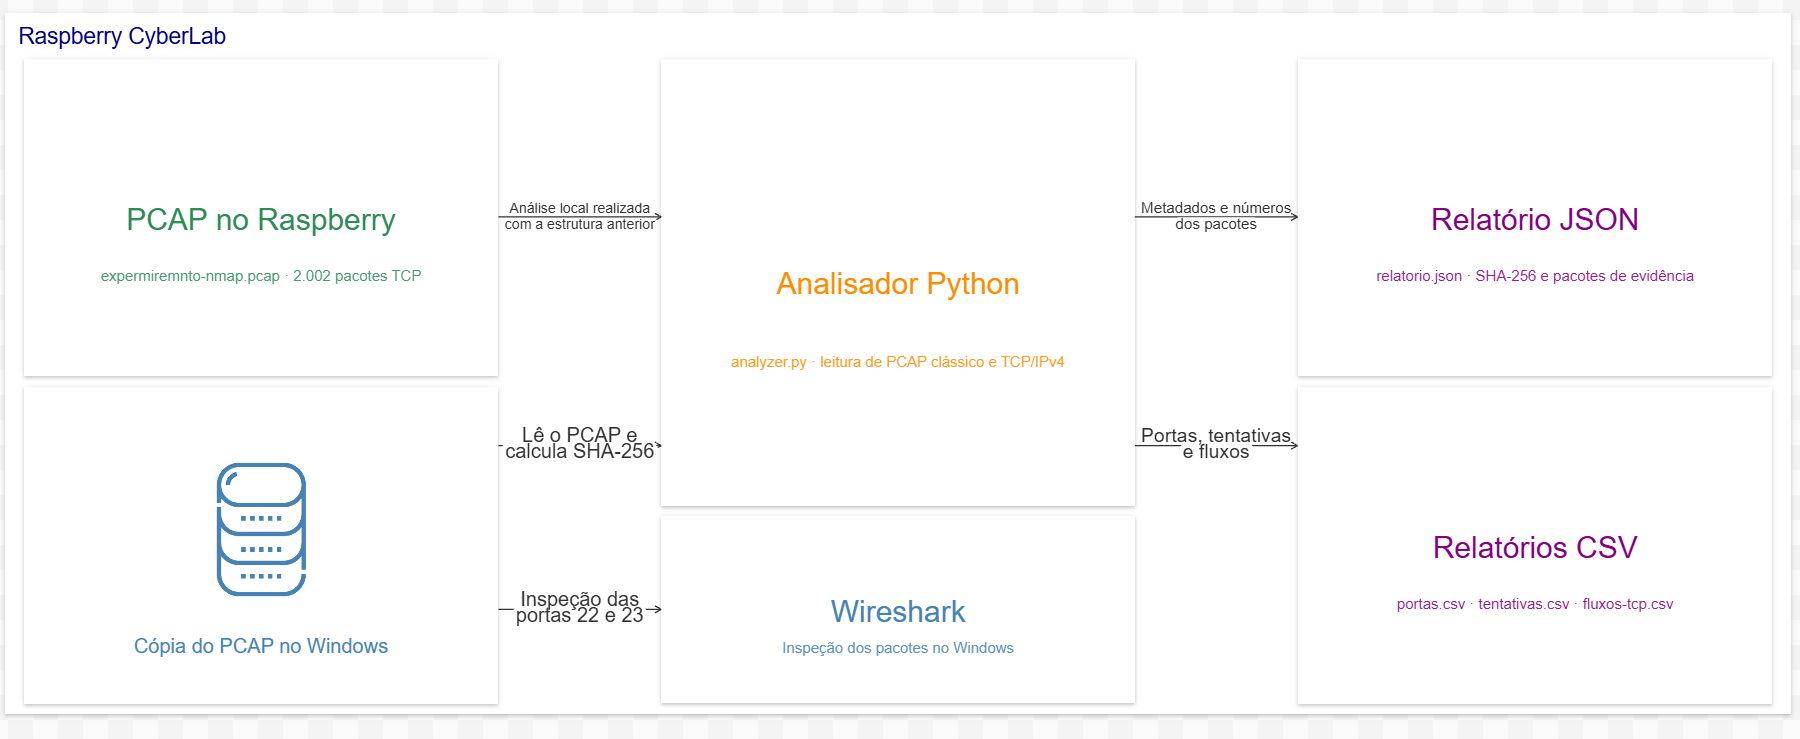
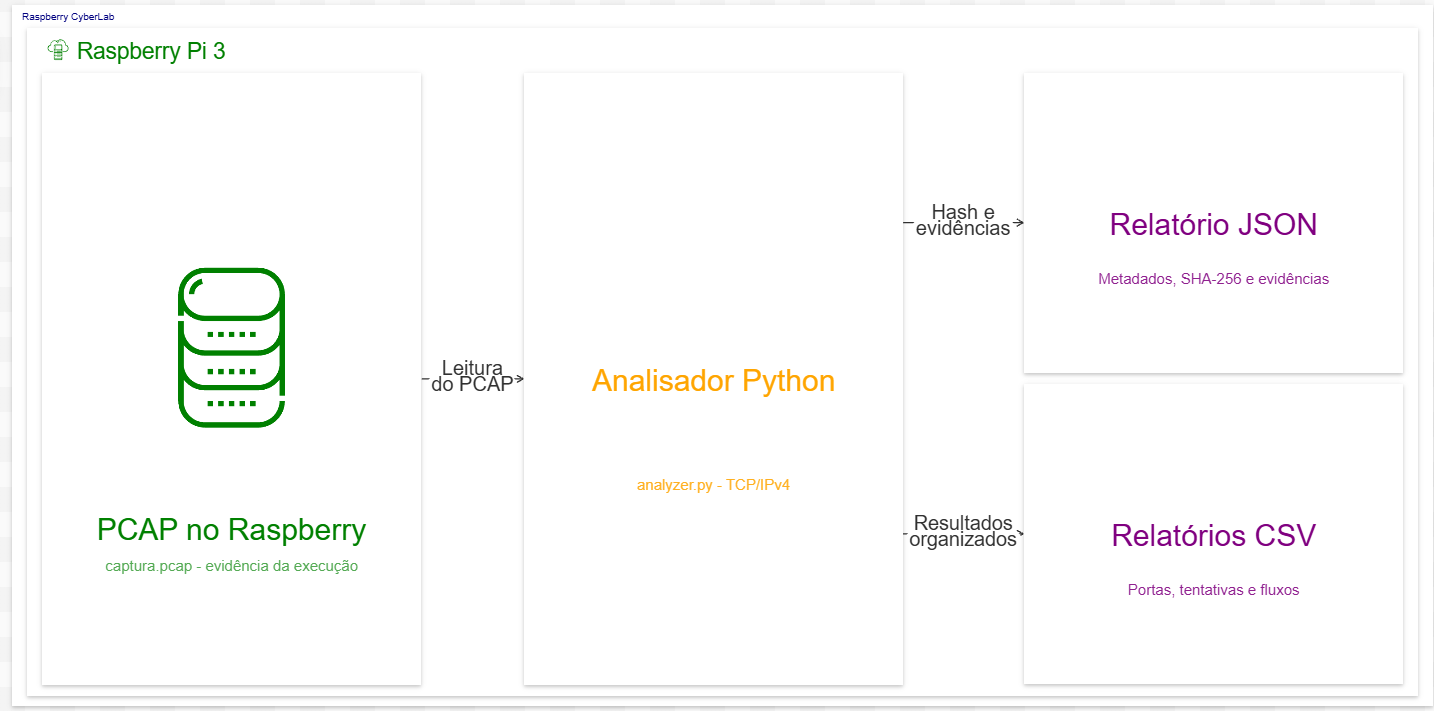
Atualiza arquitetura com cinco diagramas do experimento Wi-Fi

diff --git a/README.md b/README.md
@@ -21,23 +21,45 @@ A demonstração utiliza uma captura já coletada no laboratório. Sua execuçã
 
 ## 2. Arquitetura do laboratório
 
-### Experimento local
+### Topologia do laboratório
 
-![Diagrama Experimento local no Ilograph, do Raspberry Pi 3 à cópia do PCAP no Windows](docs/arquitetura.png)
+![Raspberry e notebook conectados ao hotspot, com varredura Nmap das portas TCP de 1 a 1000](docs/arquitetura.png)
 
-O PCAP contém 2.002 pacotes TCP em loopback (`127.0.0.1`). O arquivo foi copiado para o Windows via SCP, e o SHA-256 da cópia coincidiu com o do original.
+O Raspberry Pi 3 e o notebook estão conectados ao mesmo hotspot próprio. O Raspberry utiliza a interface `wlan0` e executa a varredura autorizada contra o notebook.
 
-### Investigação forense
+Na execução registrada, os IPs eram `10.159.233.58` (Raspberry) e `10.159.233.136` (notebook), na rede `10.159.233.0/24`. Confirme os endereços antes de repetir o experimento.
 
-![Diagrama do fluxo de análise do PCAP com Python e Wireshark, com relatórios JSON e CSV](docs/investigacao-forense.png)
+### Varredura e coleta
 
-O `analyzer.py` lê o PCAP e gera relatórios em JSON e CSV. No Wireshark, a conferência visual usa os pacotes das portas 22 e 23.
+![Nmap realiza as tentativas contra o notebook enquanto o tcpdump grava o PCAP no Raspberry](docs/varredura-e-coleta.png)
 
-### Testes e validação
+O Nmap executa uma varredura TCP Connect das portas 1 a 1000. Em paralelo, o tcpdump registra na `wlan0` os pacotes TCP envolvendo o notebook e salva a captura em PCAP.
 
-![Diagrama dos testes com capturas sintéticas e PCAP real, da conferência com TShark à comparação de relatórios entre Windows e Raspberry](docs/testes-e-validacao.png)
+A coleta começa antes da varredura e termina depois dela. O filtro inclui as duas direções da comunicação e pode registrar outras conexões entre os equipamentos.
 
-A suíte usa capturas sintéticas e o PCAP real. O TShark serviu de referência independente no Windows, e os três CSVs gerados nas execuções comparadas foram idênticos nos dois sistemas.
+### Análise forense
+
+![PCAP lido pelo analisador Python no Raspberry, gerando relatório JSON e relatórios CSV](docs/investigacao-forense.png)
+
+O `analyzer.py` é executado no Raspberry. Ele lê o PCAP, calcula SHA-256 e correlaciona as tentativas TCP por IPs, portas, direção, flags e números de sequência e confirmação.
+
+A análise gera `relatorio.json`, `portas.csv`, `tentativas.csv` e `fluxos-tcp.csv`, com referências aos pacotes que sustentam as classificações.
+
+### Conferência no Wireshark
+
+![PCAP transferido por SCP para o notebook, com comparação de SHA-256 e conferência visual no Wireshark](docs/conferencia-wireshark.png)
+
+Uma cópia do mesmo PCAP é transferida ao notebook via SCP. O hash calculado com `Get-FileHash` deve coincidir com o registrado pelo analisador.
+
+O arquivo salvo é aberto no Wireshark para conferir os pacotes indicados nos relatórios. Em cada nova execução, o nome da pasta, o hash e os números dos pacotes podem mudar.
+
+### Testes e automação
+
+![demonstrar.sh executa os testes automatizados e chama o analisador para a captura Wi-Fi configurada](docs/testes-e-validacao.png)
+
+O `demonstrar.sh` executa a suíte de testes e chama o analisador sobre a captura Wi-Fi configurada. Os testes de regressão usam separadamente a captura original de loopback e casos sintéticos.
+
+O script não executa Nmap nem tcpdump. Na versão preparada para o experimento, o caminho e o hash esperado são fixos; uma nova captura exige ajustar essa configuração ou executar `analyzer.py` diretamente. Os filtros de consulta alteram apenas a tabela exibida, mantendo os relatórios completos.
 
 ## 3. Ferramentas utilizadas
 
@@ -391,7 +413,9 @@ raspberry-cyberlab/
 ├── docs/
 │   ├── relatorio.md          # Relatório acadêmico
 │   ├── arquitetura.png
+│   ├── varredura-e-coleta.png
 │   ├── investigacao-forense.png
+│   ├── conferencia-wireshark.png
 │   └── testes-e-validacao.png
 ├── .gitignore                # Exclui capturas, resultados e caches do Git
 └── .gitattributes            # Padroniza as terminações de linha
